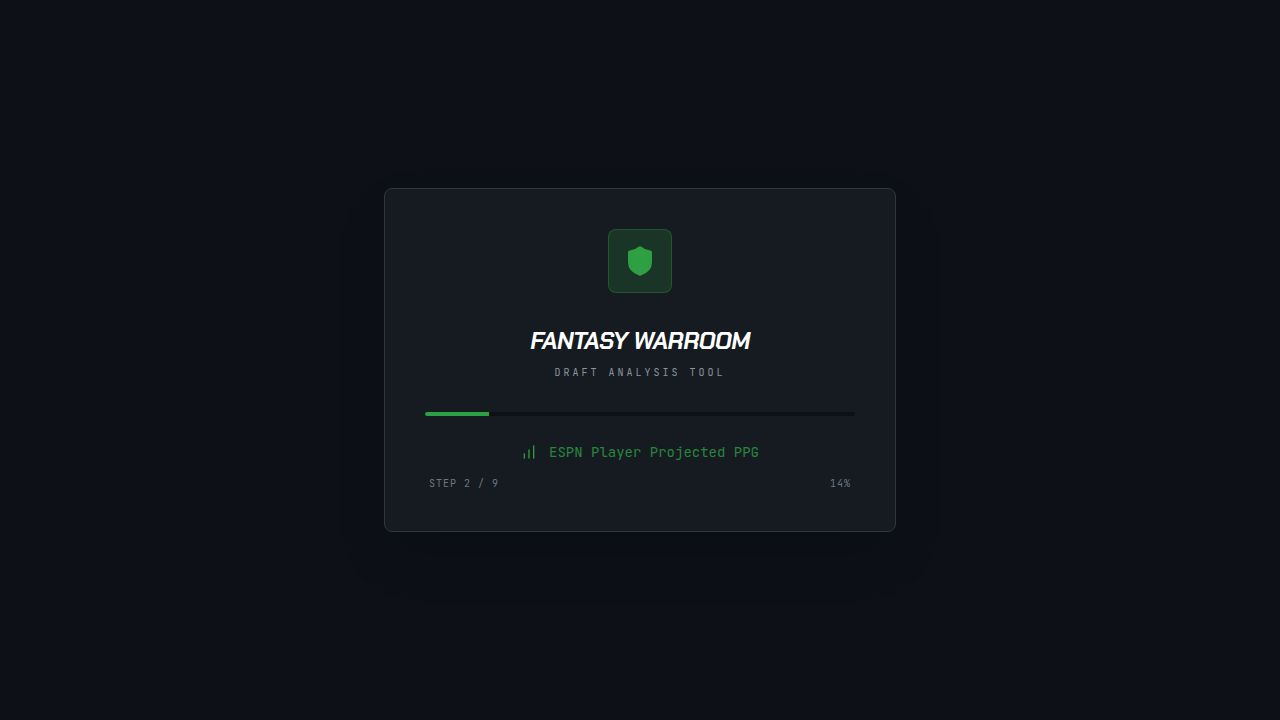
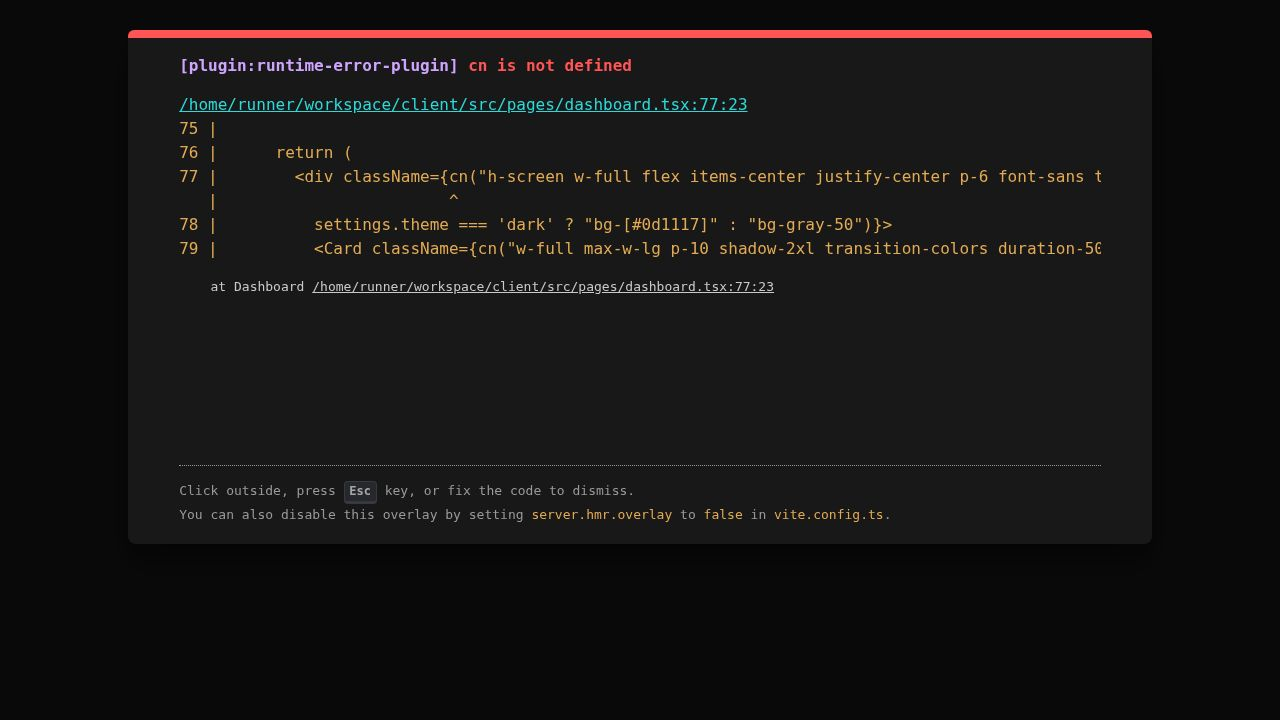
Add mock draft strategy scenarios and comparison tables
Implement a new draft strategy view with mock draft scenarios, displaying player performance by strategy and allowing for sortable total projected points.

Replit-Commit-Author: Agent
Replit-Commit-Session-Id: 152c69bb-884f-4a82-ae0d-439573de6f10
Replit-Commit-Checkpoint-Type: full_checkpoint
Replit-Commit-Event-Id: c68f0aac-d3f5-495c-af48-bc03f300ce7c
Replit-Commit-Screenshot-Url: https://storage.googleapis.com/screenshot-production-us-central1/9c5f1971-d2d7-4e19-bb64-f35a4c523612/152c69bb-884f-4a82-ae0d-439573de6f10/6mRGQXm
Replit-Helium-Checkpoint-Created: true

diff --git a/client/src/components/draft/StrategyView.tsx b/client/src/components/draft/StrategyView.tsx
@@ -1,0 +1,213 @@
+import React, { useMemo, useState } from "react";
+import { useDraftStore } from "@/lib/draftStore";
+import { cn } from "@/lib/utils";
+import { Card } from "@/components/ui/card";
+import { ScrollArea } from "@/components/ui/scroll-area";
+import { Tooltip, TooltipContent, TooltipProvider, TooltipTrigger } from "@/components/ui/tooltip";
+import { Info, ArrowUpDown } from "lucide-react";
+
+interface StrategyScenario {
+  name: string;
+  order: string[]; // e.g. ["RB", "RB", "WR", "WR", "QB", "TE", "WR", "DST", "K", "RB"]
+  players: Record<string, any>;
+  totalPPG: number;
+}
+
+export function StrategyView() {
+  const { players, settings } = useDraftStore();
+  const [sortDir, setSortDir] = useState<'asc' | 'desc'>('desc');
+
+  const scenarios = useMemo(() => {
+    const strategies = [
+      { name: "RB Heavy", order: ["RB", "RB", "WR", "WR", "TE", "QB", "WR", "RB", "DST", "K"] },
+      { name: "Zero RB", order: ["WR", "WR", "WR", "TE", "QB", "RB", "RB", "RB", "DST", "K"] },
+      { name: "Balanced", order: ["RB", "WR", "RB", "WR", "QB", "TE", "WR", "RB", "DST", "K"] },
+      { name: "Early QB", order: ["QB", "RB", "WR", "RB", "WR", "TE", "WR", "RB", "DST", "K"] },
+      { name: "Hero RB", order: ["RB", "WR", "WR", "WR", "WR", "QB", "TE", "RB", "DST", "K"] },
+    ];
+
+    return strategies.map(strat => {
+      const scenarioPlayers: Record<string, any> = {};
+      const draftedIds = new Set<string>();
+      
+      // Simulation for each round
+      strat.order.forEach((pos, roundIdx) => {
+        const round = roundIdx + 1;
+        // User's pick overall in this round (assuming position settings.position)
+        // Simple approximation: (round-1) * teamCount + position
+        const userPickOverall = (round - 1) * settings.teamCount + settings.position;
+
+        // Find best available player for this position
+        // "Available" means their ADP is >= userPickOverall (or slightly lower to be realistic)
+        const bestAvailable = players
+          .filter(p => p.position === (pos.startsWith("RB") ? "RB" : pos.startsWith("WR") ? "WR" : pos.startsWith("QB") ? "QB" : pos.startsWith("TE") ? "TE" : pos.startsWith("DST") ? "DST" : pos.startsWith("K") ? "K" : pos))
+          .filter(p => !draftedIds.has(p.id))
+          .filter(p => p.adp >= userPickOverall - 2) // buffer
+          .sort((a, b) => b.ppg - a.ppg)[0] || players.filter(p => !draftedIds.has(p.id))[0];
+
+        if (bestAvailable) {
+          draftedIds.add(bestAvailable.id);
+          // Map to display keys: RB1, RB2, etc.
+          let key = pos;
+          let count = 1;
+          while (scenarioPlayers[`${key}${count > 1 ? count : ""}`]) {
+            count++;
+          }
+          const finalKey = count > 1 ? `${key}${count}` : `${key}1`;
+          // Special handling for labels requested by user
+          scenarioPlayers[finalKey] = bestAvailable;
+        }
+      });
+
+      // Calculate Total PPG for starters
+      // Header asks for: QB, RB1, RB2, WR1, WR2, TE, FLEX, DST, K
+      // FLEX is usually the next best RB/WR/TE
+      const starters = ["QB1", "RB1", "RB2", "WR1", "WR2", "TE1", "DST1", "K1"];
+      let total = 0;
+      starters.forEach(k => {
+        if (scenarioPlayers[k]) total += scenarioPlayers[k].ppg;
+      });
+      
+      // Find FLEX and BENCH
+      const remaining = Object.entries(scenarioPlayers)
+        .filter(([k]) => !starters.includes(k));
+      
+      const flexCandidate = remaining.sort((a, b) => b[1].ppg - a[1].ppg)[0];
+      if (flexCandidate) {
+        scenarioPlayers["FLEX"] = flexCandidate[1];
+        total += flexCandidate[1].ppg;
+      }
+
+      const benchCandidate = Object.entries(scenarioPlayers)
+        .filter(([k]) => !starters.includes(k) && k !== "FLEX")
+        .sort((a, b) => b[1].ppg - a[1].ppg)[0];
+      
+      if (benchCandidate) {
+        scenarioPlayers["BENCH"] = benchCandidate[1];
+      }
+
+      return {
+        name: strat.name,
+        players: scenarioPlayers,
+        totalPPG: parseFloat(total.toFixed(1))
+      };
+    }).sort((a, b) => sortDir === 'desc' ? b.totalPPG - a.totalPPG : a.totalPPG - b.totalPPG);
+  }, [players, settings, sortDir]);
+
+  const columns = [
+    { id: "QB1", label: "QB" },
+    { id: "RB1", label: "RB1" },
+    { id: "RB2", label: "RB2" },
+    { id: "WR1", label: "WR1" },
+    { id: "WR2", label: "WR2" },
+    { id: "TE1", label: "TE" },
+    { id: "FLEX", label: "FLEX" },
+    { id: "DST1", label: "DST" },
+    { id: "K1", label: "K" },
+    { id: "BENCH", label: "BENCH" },
+  ];
+
+  return (
+    <div className="flex-1 overflow-hidden p-6 flex flex-col space-y-6">
+      <div className="flex items-center justify-between">
+        <h2 className="text-xl font-display font-bold tracking-tight text-white uppercase italic">
+          Draft Scenarios & Strategies
+        </h2>
+        <div className="flex items-center space-x-2 text-[10px] text-[#8b949e] font-mono uppercase tracking-widest">
+          <Info className="h-3 w-3 text-primary" />
+          <span>Projected best picks per round</span>
+        </div>
+      </div>
+
+      <Card className="flex-1 min-h-0 bg-[#161b22] border-[#30363d] overflow-hidden flex flex-col shadow-2xl">
+        <ScrollArea className="flex-1">
+          <div className="min-w-[1400px]">
+            <div className="grid grid-cols-[150px_repeat(10,minmax(115px,1fr))_120px] gap-0 border-b border-[#30363d] bg-[#0d1117] text-[10px] font-bold text-[#8b949e] uppercase tracking-tighter sticky top-0 z-20">
+              <div className="p-4 border-r border-[#30363d] bg-[#0d1117]">STRATEGY</div>
+              {columns.map(col => (
+                <div key={col.id} className="p-4 border-r border-[#30363d] text-center bg-[#0d1117]">
+                  {col.label}
+                </div>
+              ))}
+              <div 
+                className="p-4 flex items-center justify-center space-x-2 cursor-pointer hover:bg-white/5 transition-colors text-primary bg-[#0d1117]"
+                onClick={() => setSortDir(prev => prev === 'desc' ? 'asc' : 'desc')}
+              >
+                <span>TOTAL PPG</span>
+                <ArrowUpDown className="h-3 w-3" />
+              </div>
+            </div>
+
+            <div className="flex flex-col">
+              {scenarios.map((scenario, idx) => (
+                <div 
+                  key={idx} 
+                  className="grid grid-cols-[150px_repeat(10,minmax(110px,1fr))_120px] gap-0 border-b border-[#30363d]/50 hover:bg-white/[0.02] transition-colors group"
+                >
+                  <div className="p-4 border-r border-[#30363d]/50 flex flex-col justify-center">
+                    <span className="text-white font-bold text-xs">{scenario.name}</span>
+                    <span className="text-[9px] text-[#8b949e] font-mono mt-1 uppercase">Scenario {idx + 1}</span>
+                  </div>
+                  
+                  {columns.map(col => {
+                    const player = scenario.players[col.id];
+                    return (
+                      <div key={col.id} className="p-3 border-r border-[#30363d]/50 flex flex-col justify-center items-center text-center">
+                        {player ? (
+                          <>
+                            <span className="text-[11px] font-semibold text-[#c9d1d9] truncate w-full">{player.name}</span>
+                            <div className="flex items-center space-x-1 mt-0.5">
+                              <span className="text-[9px] font-bold text-primary">{player.team}</span>
+                              <span className="text-[9px] text-[#8b949e] font-mono">{player.ppg}</span>
+                            </div>
+                          </>
+                        ) : (
+                          <span className="text-[9px] text-[#484f58] italic">--</span>
+                        )}
+                      </div>
+                    );
+                  })}
+
+                  <div className="p-4 flex flex-col items-center justify-center bg-primary/5">
+                    <span className="text-lg font-display font-black text-primary italic leading-none">{scenario.totalPPG}</span>
+                    <span className="text-[8px] text-primary/60 font-mono mt-1">TOTAL</span>
+                  </div>
+                </div>
+              ))}
+            </div>
+          </div>
+        </ScrollArea>
+      </Card>
+      
+      <div className="grid grid-cols-1 md:grid-cols-3 gap-4">
+        <div className="p-4 rounded-xl bg-[#161b22] border border-[#30363d] flex flex-col space-y-2">
+          <h4 className="text-[10px] font-bold text-primary uppercase tracking-widest flex items-center">
+            <div className="h-1.5 w-1.5 rounded-full bg-primary mr-2" />
+            Simulation Logic
+          </h4>
+          <p className="text-[11px] text-[#8b949e] leading-relaxed">
+            These scenarios assume drafting the highest projected player available for each position required by the strategy, while respecting current ADP trends.
+          </p>
+        </div>
+        <div className="p-4 rounded-xl bg-[#161b22] border border-[#30363d] flex flex-col space-y-2">
+          <h4 className="text-[10px] font-bold text-primary uppercase tracking-widest flex items-center">
+            <div className="h-1.5 w-1.5 rounded-full bg-primary mr-2" />
+            Total PPG
+          </h4>
+          <p className="text-[11px] text-[#8b949e] leading-relaxed">
+            Sum of projected points for your starting lineup (QB, 2 RB, 2 WR, TE, FLEX, DST, K). Bench players do not count toward this total.
+          </p>
+        </div>
+        <div className="p-4 rounded-xl bg-[#161b22] border border-[#30363d] flex flex-col space-y-2">
+          <h4 className="text-[10px] font-bold text-primary uppercase tracking-widest flex items-center">
+            <div className="h-1.5 w-1.5 rounded-full bg-primary mr-2" />
+            Flex Strategy
+          </h4>
+          <p className="text-[11px] text-[#8b949e] leading-relaxed">
+            The Flex position is automatically assigned to the highest remaining PPG player from your RB, WR, or TE pool after filling primary slots.
+          </p>
+        </div>
+      </div>
+    </div>
+  );
+}

diff --git a/client/src/pages/dashboard.tsx b/client/src/pages/dashboard.tsx
@@ -27,6 +27,7 @@ const STEP_ICONS: Record<string, any> = {
 import { Input } from "@/components/ui/input";
 import { Checkbox } from "@/components/ui/checkbox";
 import { cn } from "@/lib/utils";
+import { StrategyView } from "@/components/draft/StrategyView";
 
 export default function Dashboard() {
   const [isInitializing, setIsInitializing] = useState(true);
@@ -170,27 +171,7 @@ export default function Dashboard() {
     }
 
     if (location === "/strategy") {
-      return (
-        <div className="flex-1 overflow-hidden p-6">
-          <Card className={cn("h-full flex flex-col p-8 space-y-6 transition-colors duration-500",
-            settings.theme === 'dark' ? "bg-[#161b22] border-[#30363d]" : "bg-white border-gray-200")}>
-            <h2 className={cn("text-xl font-display font-bold tracking-tight transition-colors duration-500",
-              settings.theme === 'dark' ? "text-white" : "text-gray-900")}>DRAFT STRATEGY</h2>
-            <div className="grid grid-cols-1 md:grid-cols-2 gap-6">
-              <Card className={cn("p-6 transition-colors duration-500",
-                settings.theme === 'dark' ? "bg-[#0d1117] border-[#30363d]" : "bg-gray-50 border-gray-200")}>
-                <h3 className="text-primary font-mono text-sm mb-4">OPTIMAL VALUE TARGETS</h3>
-                <p className="text-[#8b949e] text-sm">Based on Projected PPG vs ADP disparity across ESPN platforms.</p>
-              </Card>
-              <Card className={cn("p-6 transition-colors duration-500",
-                settings.theme === 'dark' ? "bg-[#0d1117] border-[#30363d]" : "bg-gray-50 border-gray-200")}>
-                <h3 className="text-primary font-mono text-sm mb-4">SOS ANALYSIS</h3>
-                <p className="text-[#8b949e] text-sm">Teams with the softest early-season schedules (Weeks 1-6).</p>
-              </Card>
-            </div>
-          </Card>
-        </div>
-      );
+      return <StrategyView />;
     }
 
     if (location === "/settings") {